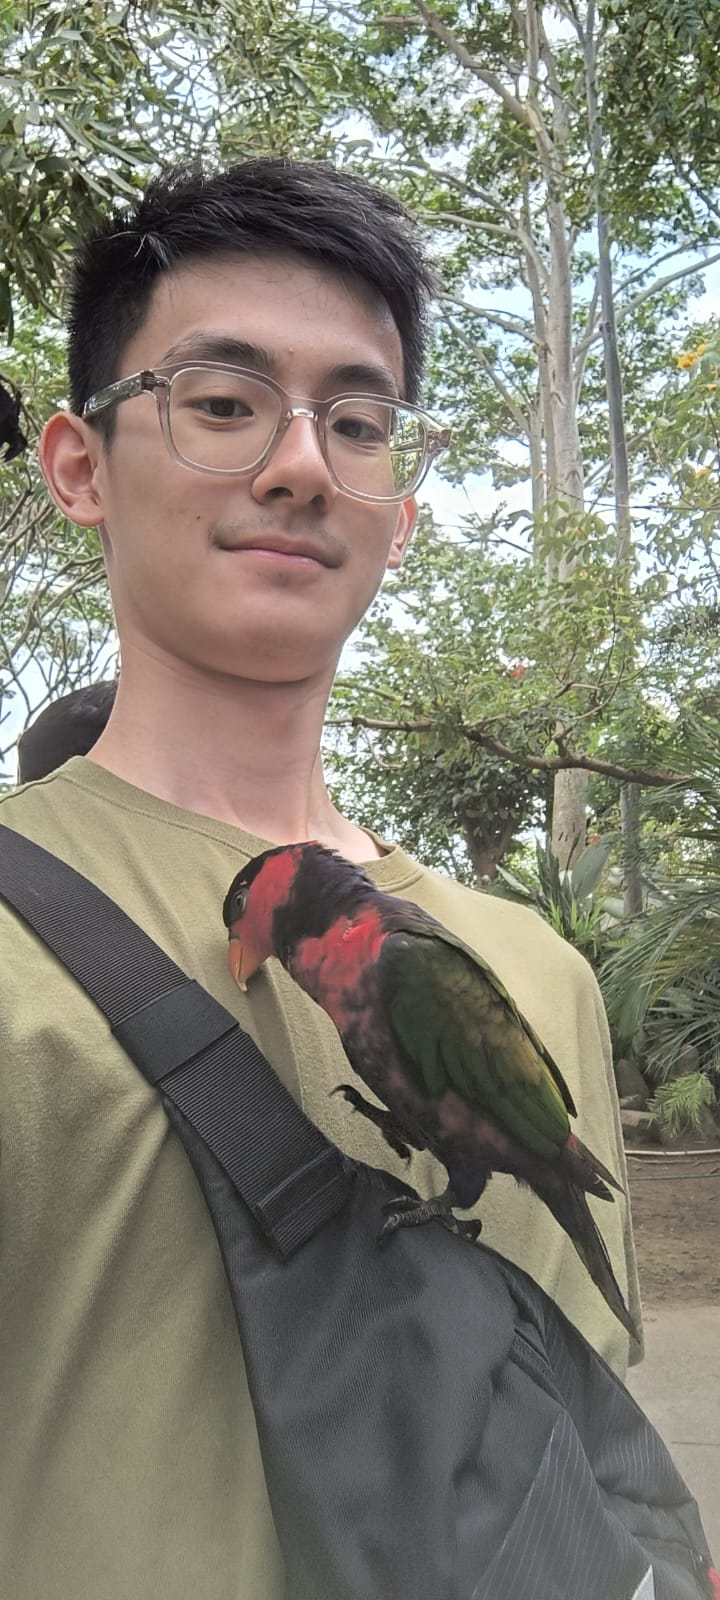
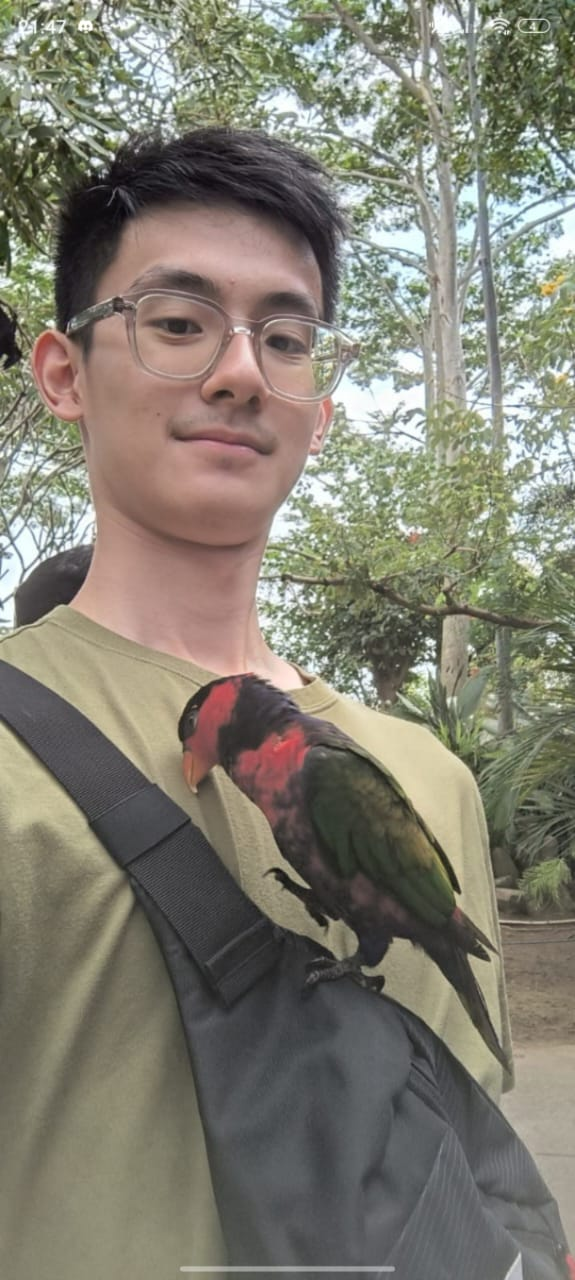
WA method img optomization

diff --git a/index.html b/index.html
@@ -108,7 +108,7 @@
 
         <div class="aboutMeImagesContainer">
             <img class="aboutmeImages" src="./assets/aboutMeAssets/image.png" alt="">
-            <img class="aboutmeImages" src="./assets/aboutMeAssets/imageside.png" alt="">
+            <img class="aboutmeImages" src="./assets/aboutMeAssets/sidebysisdesmall.jpg" alt="">
             <img class="aboutmeImages" src="./assets/aboutMeAssets/Raftin.jpg" alt="">
             <img class="aboutmeImages" src="./assets/aboutMeAssets/birdfoto.jpg" alt="">
         </div>
@@ -188,7 +188,7 @@
                     <div class="tracker tr-25"></div>
                     <div id="card">
                         <div id="prompt">
-                            <img class="projectImage" src="https://i.postimg.cc/NFmq9XWL/deluna.png" alt="">
+                            <img class="projectImage" src="./assets/projectsAssets/dellunasmall.jpg" alt="">
                         </div>
                         <div class="title">
                             <p> Fullstack Web Development</p>
@@ -236,7 +236,7 @@
                     <div class="tracker tr-25"></div>
                     <div id="card">
                         <div id="prompt">
-                            <img class="projectImage" src="./assets/projectsAssets/watchers home.png" alt="">
+                            <img class="projectImage" src="./assets/projectsAssets/WatchersSmall.jpg" alt="">
                         </div>
 
                         <div class="title">
@@ -391,7 +391,7 @@
                 <div class="tracker tr-25"></div>
                 <div id="card">
                     <div id="prompt">
-                        <img class="projectImage" src="https://i.postimg.cc/N0M38SW3/watchers-home.png" alt="">
+                        <img class="projectImage" src="./assets/projectsAssets/WatchersSmall.jpg" alt="">
                     </div>
 
                     <div class="title">
